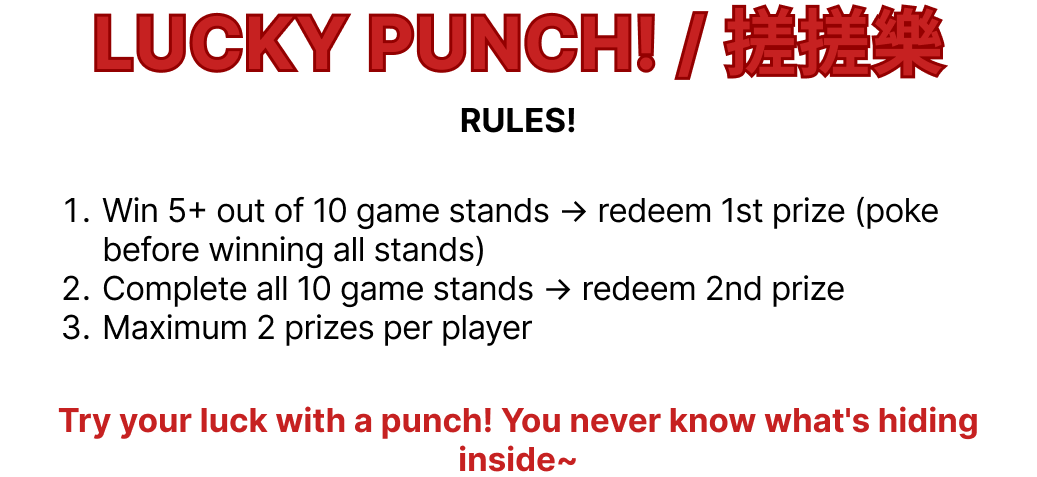
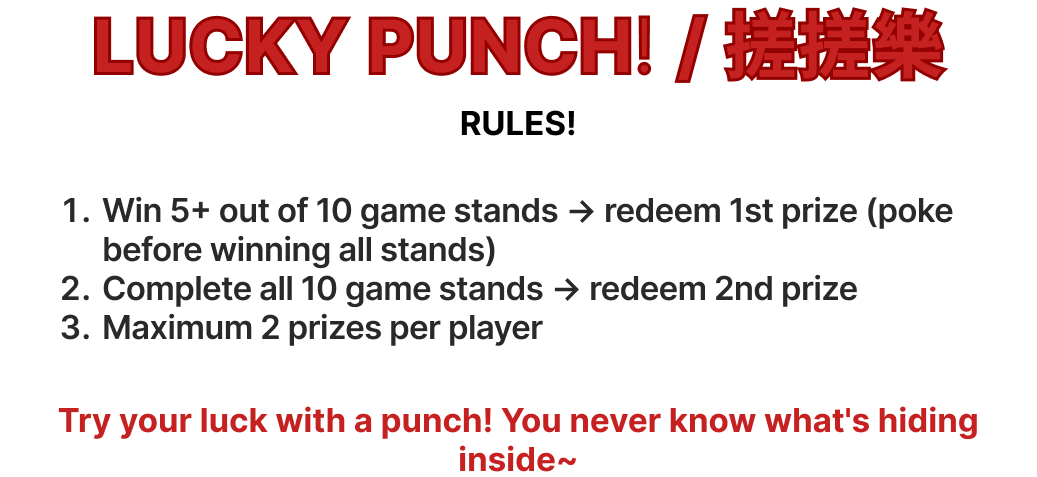
updated panels

Changed region(s): [[0.0617, 0.4109, 0.9257, 0.7338], [0.0926, 0.0, 0.9257, 0.1761], [0.432, 0.2055, 0.5554, 0.2935]]

diff --git a/client/src/components/ActivityCard/ActivityCard.tsx b/client/src/components/ActivityCard/ActivityCard.tsx
@@ -162,7 +162,7 @@ export default function ActivityCard() {
             height: "auto",
             display: "block",
             paddingTop: '0%',
-            paddingBottom: '7%'
+            paddingBottom: '5%'
           }}
         />
 
@@ -414,7 +414,7 @@ export default function ActivityCard() {
               borderRadius: "16px",
               width: "80%",
               textAlign: "center",
-              boxShadow: "0 8px 24px rgba(0,0,0,0.2)",
+              //boxShadow: "0 8px 24px rgba(0,0,0,0.2)",
             }}
           >
             <h2 style={{ marginTop: "1%", marginBottom: '5%' }}>Instructions</h2>

diff --git a/client/src/components/Home/Home.tsx b/client/src/components/Home/Home.tsx
@@ -1,9 +1,9 @@
 import { useNavigate } from "react-router-dom";
 
 import headerSvg from "../../assets/panels/overlay_building_lantern.png";
-import activitySvg from "../../assets/panels/game stamps.png";
+import activitySvg from "../../assets/panels/stamp card.png";
 import merchSvg from "../../assets/panels/merch.png";
-import menuSvg from "../../assets/panels/menu.png";
+import menuSvg from "../../assets/panels/stalls.png";
 import infoSvg from "../../assets/panels/schedule + map.png";
 import sponsorsSvg from "../../assets/panels/sponsors.png";
 
